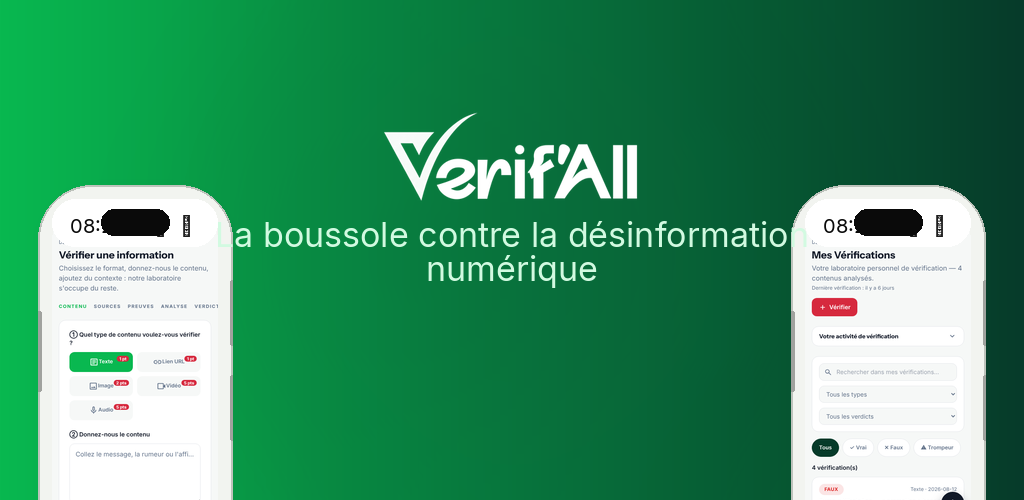
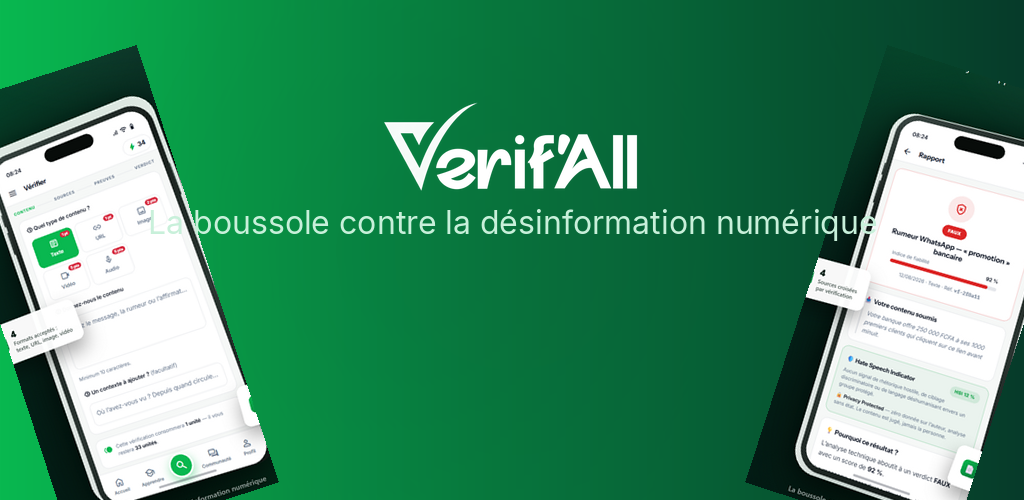
feat(playstore): screenshots -alt existants + feature graphic phones inclinés
- Remplace les captures générées par Playwright par les 6 fichiers -alt
  existants de verifall_flutter/docs/publication-play-store/visuels/
  (style validé : fond vert foncé, cadre iPhone blanc, badge VÉRIF'ALL)
  → 01-verifier, 02-tableau-de-bord, 03-rapport, 04-accueil,
    05-forum, 06-hub-opportunites

- Régénère feature-graphic-1024x500.png avec deux téléphones inclinés ±18°
  (phone gauche : verifier / phone droit : rapport) émergeant du bas,
  logo Vérif'All centré, dégradé #09B850 → #063B2A

- Ajoute make_feature_graphic.py (script autonome Pillow)

Claude-Session: https://claude.ai/code/session_01WZtcdDSFHW1KDxTpDcUvTX

Changed region(s): [[0.0, 0.09, 1.0, 1.0]]

diff --git a/docs/playstore/make_feature_graphic.py b/docs/playstore/make_feature_graphic.py
@@ -1,0 +1,202 @@
+#!/usr/bin/env python3
+"""
+Vérif'All — Feature graphic 1024×500
+======================================
+Prend deux screenshots -alt existants (verifier + rapport),
+en extrait la zone téléphone, les incline et les compose
+sur un dégradé vert, avec le logo centré.
+Style : Xomiton (phones inclinés émergeant du bas).
+
+Usage : python3 make_feature_graphic.py
+"""
+import math, sys
+from pathlib import Path
+from PIL import Image, ImageDraw, ImageFilter, ImageFont
+
+VISUELS  = Path(__file__).resolve().parent.parent.parent / \
+           "verifall_flutter/docs/publication-play-store/visuels"
+OUT      = Path(__file__).resolve().parent / "assets/feature-graphic-1024x500.png"
+LOGO_PNG = Path(__file__).resolve().parent.parent.parent / \
+           "verifall_laravel/public/assets/images/logo-light.png"
+
+# Couleurs
+VERT_VIF   = (9, 184, 80)    # #09B850
+VERT_FOND  = (6,  59, 42)    # #063B2A
+VERT_CLAIR = (10, 80, 56)    # centre radial
+BLANC      = (255, 255, 255)
+
+W, H = 1024, 500
+
+# ── Fond dégradé diagonal vert vif → vert sombre ─────────────────────────────
+def fond() -> Image.Image:
+    img = Image.new("RGB", (W, H), VERT_FOND)
+    # Dégradé horizontal gauche→droite
+    r1,g1,b1 = VERT_VIF
+    r2,g2,b2 = VERT_FOND
+    for x in range(W):
+        t = x / (W - 1)
+        col = Image.new("RGB", (1, H), (
+            int(r1 + (r2-r1)*t),
+            int(g1 + (g2-g1)*t),
+            int(b1 + (b2-b1)*t),
+        ))
+        img.paste(col, (x, 0))
+    # Lueur radiale centrale
+    glow = Image.new("RGBA", (W, H), (0,0,0,0))
+    d = ImageDraw.Draw(glow)
+    cx, cy = W//2, H//2
+    for r, a in [(350, 20), (220, 38), (120, 55)]:
+        d.ellipse([(cx-r, cy-r),(cx+r, cy+r)], fill=(*VERT_CLAIR, a))
+    glow = glow.filter(ImageFilter.GaussianBlur(radius=70))
+    result = Image.alpha_composite(img.convert("RGBA"), glow)
+    return result.convert("RGB")
+
+
+# ── Extraction de la zone téléphone ──────────────────────────────────────────
+# Coordonnées approximatives du phone dans les screenshots 1080×1920
+# mesurées sur les -alt : phone ≈ (155, 450, 825, 1875)
+PHONE_BOX = (155, 450, 825, 1875)
+
+def extraire_phone(src_path: Path, target_h: int) -> Image.Image:
+    """Crop la zone téléphone, redimensionne à target_h, retourne RGBA."""
+    img = Image.open(src_path).convert("RGBA")
+    phone = img.crop(PHONE_BOX)
+    bw, bh = phone.size
+    target_w = int(bw * target_h / bh)
+    return phone.resize((target_w, target_h), Image.LANCZOS)
+
+
+def rotation_avec_fond(img: Image.Image, angle: float,
+                        bg: tuple) -> Image.Image:
+    """
+    Tourne img de `angle` degrés.
+    Le fond transparent est remplacé par bg pour que les coins
+    se fondent dans le dégradé vert.
+    """
+    # Fond de la même couleur que le dégradé
+    bg_img = Image.new("RGBA", img.size, (*bg, 255))
+    bg_img.paste(img, mask=img.split()[3])  # alpha mask
+    # Rotation avec expand=True pour ne pas couper les coins
+    rotated = bg_img.rotate(-angle, expand=True, resample=Image.BICUBIC)
+    return rotated.convert("RGBA")
+
+
+# ── Police ───────────────────────────────────────────────────────────────────
+def police(taille: int, gras: bool = False) -> ImageFont.FreeTypeFont:
+    candidats = []
+    if gras:
+        candidats += [
+            str(Path(__file__).parent.parent.parent /
+                "verifall_flutter/assets/fonts/InstrumentSans-Bold.ttf"),
+            str(Path(__file__).parent.parent.parent /
+                "verifall_laravel/resources/prototype/css/fonts/InstrumentSans-Bold.ttf"),
+            "/usr/share/fonts/truetype/dejavu/DejaVuSans-Bold.ttf",
+            "/usr/share/fonts/truetype/liberation/LiberationSans-Bold.ttf",
+        ]
+    else:
+        candidats += [
+            str(Path(__file__).parent.parent.parent /
+                "verifall_flutter/assets/fonts/Inter-Regular.ttf"),
+            "/usr/share/fonts/truetype/dejavu/DejaVuSans.ttf",
+            "/usr/share/fonts/truetype/liberation/LiberationSans-Regular.ttf",
+        ]
+    for p in candidats:
+        if Path(p).exists():
+            try:
+                return ImageFont.truetype(p, taille)
+            except Exception:
+                continue
+    return ImageFont.load_default()
+
+
+def texte_centre(draw, texte, cx, y, font, couleur):
+    bb = draw.textbbox((0,0), texte, font=font)
+    tw = bb[2] - bb[0]
+    draw.text((cx - tw//2 - bb[0], y - bb[1]), texte, font=font, fill=couleur)
+    return y + bb[3] - bb[1]
+
+
+# ── Assemblage ───────────────────────────────────────────────────────────────
+def main():
+    verifier_path = VISUELS / "screenshot-3-verifier-alt.png"
+    rapport_path  = VISUELS / "screenshot-4-rapport-alt.png"
+
+    if not verifier_path.exists() or not rapport_path.exists():
+        sys.exit(f"❌  Fichiers introuvables dans {VISUELS}")
+
+    canvas = fond().convert("RGBA")
+    draw   = ImageDraw.Draw(canvas)
+
+    PHONE_H  = 460   # hauteur du téléphone dans le feature graphic
+    ANGLE    = 18    # degrés d'inclinaison
+
+    # — Téléphone gauche (écran vérifier, incliné vers la droite) —
+    ph_g = extraire_phone(verifier_path, PHONE_H)
+    ph_g_rot = rotation_avec_fond(ph_g, -ANGLE, VERT_VIF)   # top left = left tilt
+    # Position : émerge du bord gauche et du bas
+    pw_g, ph_g_h = ph_g_rot.size
+    x_g = -int(pw_g * 0.20)    # dépasse à gauche
+    y_g = H - ph_g_h + int(ph_g_h * 0.10)   # dépasse en bas
+    canvas.paste(ph_g_rot, (x_g, y_g), ph_g_rot)
+
+    # — Téléphone droit (écran rapport, incliné vers la gauche) —
+    ph_d = extraire_phone(rapport_path, PHONE_H)
+    ph_d_rot = rotation_avec_fond(ph_d, ANGLE, VERT_FOND)   # top right = right tilt
+    pw_d, ph_d_h = ph_d_rot.size
+    x_d = W - pw_d + int(pw_d * 0.20)   # dépasse à droite
+    y_d = H - ph_d_h + int(ph_d_h * 0.10)
+    canvas.paste(ph_d_rot, (x_d, y_d), ph_d_rot)
+
+    # Redessiner le draw après les pastes
+    draw = ImageDraw.Draw(canvas)
+
+    # — Logo centré —
+    cx = W // 2
+
+    # Essaye d'abord logo-light.png (fond blanc sur transparent = blanc sur vert)
+    logo_chargé = False
+    for logo_path in [
+        Path(__file__).parent.parent.parent /
+            "verifall_laravel/public/assets/images/logo-light.png",
+        Path(__file__).parent.parent.parent /
+            "verifall_laravel/public/assets/images/logo.png",
+    ]:
+        if logo_path.exists():
+            logo = Image.open(logo_path).convert("RGBA")
+            # Rendre les pixels sombres blancs (logo sur fond sombre)
+            r, g, b, a = logo.split()
+            # logo-light.png est déjà blanc ; logo.png est vert/sombre
+            logo_blanc = Image.merge("RGBA", [
+                Image.new("L", logo.size, 255),
+                Image.new("L", logo.size, 255),
+                Image.new("L", logo.size, 255),
+                a,
+            ])
+            target_w = 280
+            target_h = int(logo_blanc.height * target_w / logo_blanc.width)
+            logo_blanc = logo_blanc.resize((target_w, target_h), Image.LANCZOS)
+            y_logo = int(H * 0.20)
+            canvas.paste(logo_blanc, (cx - target_w//2, y_logo), logo_blanc)
+            y_slogan = y_logo + target_h + 16
+            logo_chargé = True
+            draw = ImageDraw.Draw(canvas)
+            break
+
+    if not logo_chargé:
+        f_titre = police(64, gras=True)
+        y_slogan = texte_centre(draw, "Vérif'All", cx, int(H * 0.20),
+                                f_titre, BLANC) + 12
+
+    # — Slogan —
+    f_slogan = police(32)
+    y_slogan = texte_centre(draw,
+        "La boussole contre la désinformation numérique",
+        cx, y_slogan, f_slogan, (200, 240, 218))
+
+    OUT.parent.mkdir(parents=True, exist_ok=True)
+    canvas.convert("RGB").save(OUT, "PNG", optimize=True)
+    print(f"✅  {OUT}")
+
+
+if __name__ == "__main__":
+    main()
